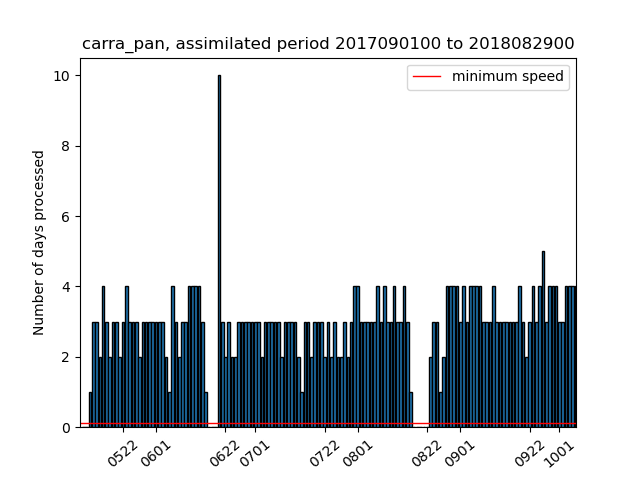
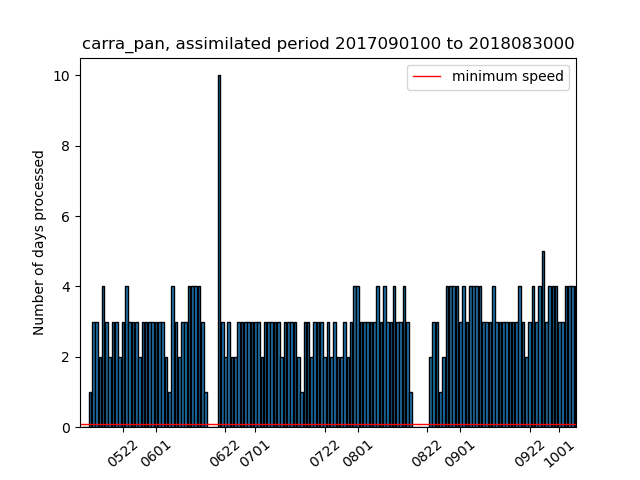
update repo

Changed region(s): [[0.125, 0.875, 0.9062, 0.9062], [0.8438, 0.0625, 0.875, 0.125]]

diff --git a/current_state_sims.html b/current_state_sims.html
@@ -2,18 +2,18 @@
 <h1>Estimated completion dates and simulation speeds</h1>
 <p>Stream (production) completion date based on 30d (7d) moving avg speed</p>
 <p><a href="https://docs.google.com/document/d/1zDKAxuEXYnWWYzT3SZnZwY5WW8nodUMeYRjAGz46coc/edit#">Details of the calculation of the completion dates</a></p>
-<p>Last update: 2021/10/07 06:45:20 UTC</p>
+<p>Last update: 2021/10/07 12:41:40 UTC</p>
 <p>Total progress CARRA: 99.55% <a href="https://hirlam.org/portal/CARRA/Progress/GanntChart_CARRA.html"> (see detailed progress meter in Gantt chart) </a></p>
 <p>Total progress PANARCTIC: 91.67% </p>
 <p><a href="https://hirlam.org/portal/CARRA/Progress/waiting_times.html"> Queue waiting times for all streams</a></p>
 <p><a href="https://hirlam.org/portal/CARRA/Progress/mars_status.html"> MARS archive throughput </a></p>
 <html><table border="1"><tr><th>expId</th><th>Current assimilated date</th><th>End date of stream </th><th> Completion date</th><th> Avg. throughput (7d) </th> <th>Avg. throughput (30d) </th> <th> Remarks</tr>
-<tr bgcolor="#FFFF00"><td>carra_NE_3</td><td>2021063000</td><td>2021063021</td><td>2021100706</td><td>(0.0) days/day</td><td>(2.63) days/day</td><td>Inactive the past week</tr>
+<tr bgcolor="#FFFF00"><td>carra_NE_3</td><td>2021063000</td><td>2021063021</td><td>2021100712</td><td>(0.0) days/day</td><td>(2.63) days/day</td><td>Inactive the past week</tr>
 <tr bgcolor="#33FF38"><td>carra_NE_4</td><td>1992090100</td><td>1992083021</td><td>Finished on 20210824</td><td>(0.0) days/day</td><td>(0.0) days/day</td><td>Stream finished</tr>
 <tr bgcolor="#33FF38"><td>carra_NE_5</td><td>1994090100</td><td>1994083021</td><td>Finished on 20210824</td><td>(0.0) days/day</td><td>(0.0) days/day</td><td>Stream finished</tr>
-<tr bgcolor="#33FF38"><td>carra_NE_6</td><td>1997070100</td><td>1997063021</td><td>2021100617</td><td>(0.0) days/day</td><td>(1.77) days/day</td><td>Stream finished</tr>
-<tr bgcolor="#FFFF00"><td>carra_IGB_3</td><td>2021063000</td><td>2021063021</td><td>2021100706</td><td>(0.0) days/day</td><td>(2.7) days/day</td><td>Inactive the past week</tr>
-<tr bgcolor="#33FF38"><td>carra_IGB_4</td><td>1992090100</td><td>1992083021</td><td>2021080806</td><td>(0.0) days/day</td><td>(0.03) days/day</td><td>Stream finished</tr>
-<tr bgcolor="#33FF38"><td>carra_IGB_5</td><td>1994090100</td><td>1994083021</td><td>2021100617</td><td>(0.0) days/day</td><td>(3.57) days/day</td><td>Stream finished</tr>
-<tr bgcolor="#FFA500"><td>carra_IGB_6</td><td>1997020112</td><td>1997063021</td><td>2021110112</td><td>(6.43) days/day</td><td>(5.9) days/day</td><td>Completion date after project end (20211031)</tr>
-<tr bgcolor="#FFFFFF"><td>carra_pan</td><td>2018082900</td><td>2018090100</td><td>2021100803</td><td>(3.71) days/day</td><td>(3.43) days/day</td><td></tr>
+<tr bgcolor="#33FF38"><td>carra_NE_6</td><td>1997070100</td><td>1997063021</td><td>2021100623</td><td>(0.0) days/day</td><td>(1.77) days/day</td><td>Stream finished</tr>
+<tr bgcolor="#FFFF00"><td>carra_IGB_3</td><td>2021063000</td><td>2021063021</td><td>2021100712</td><td>(0.0) days/day</td><td>(2.7) days/day</td><td>Inactive the past week</tr>
+<tr bgcolor="#33FF38"><td>carra_IGB_4</td><td>1992090100</td><td>1992083021</td><td>2021080812</td><td>(0.0) days/day</td><td>(0.03) days/day</td><td>Stream finished</tr>
+<tr bgcolor="#33FF38"><td>carra_IGB_5</td><td>1994090100</td><td>1994083021</td><td>2021100623</td><td>(0.0) days/day</td><td>(3.57) days/day</td><td>Stream finished</tr>
+<tr bgcolor="#FFA500"><td>carra_IGB_6</td><td>1997020221</td><td>1997063021</td><td>2021110114</td><td>(6.43) days/day</td><td>(5.9) days/day</td><td>Completion date after project end (20211031)</tr>
+<tr bgcolor="#FFFFFF"><td>carra_pan</td><td>2018083000</td><td>2018090100</td><td>2021100802</td><td>(3.71) days/day</td><td>(3.43) days/day</td><td></tr>
